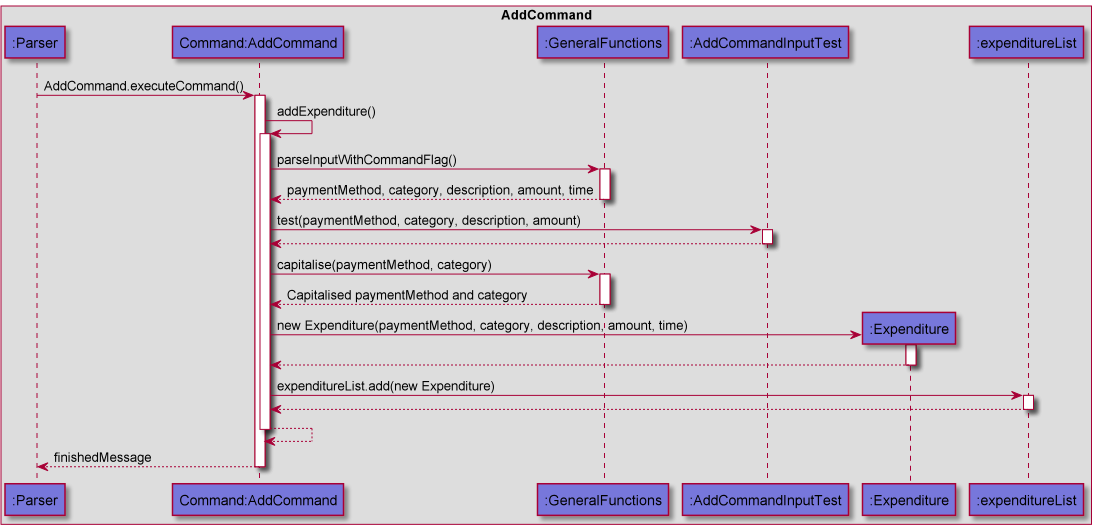
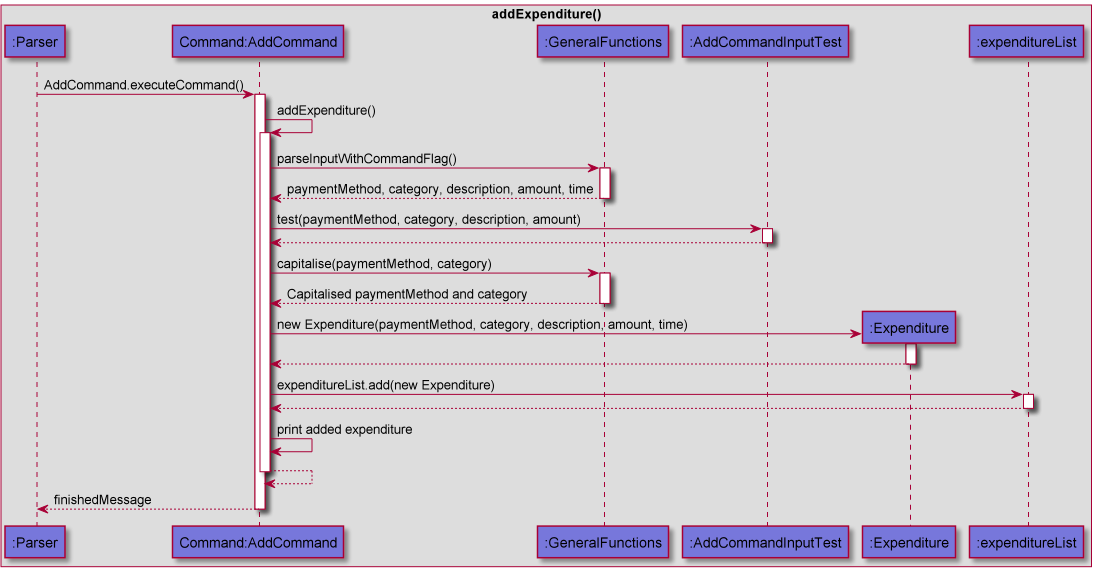
Added addCreditCard() to DG

Changed region(s): [[0.0, 0.0, 1.0, 1.0]]

diff --git a/src/main/java/seedu/mindmymoney/command/AddCommand.java b/src/main/java/seedu/mindmymoney/command/AddCommand.java
@@ -167,7 +167,7 @@ public class AddCommand extends Command {
                     + "into the account");
             System.out.println(System.lineSeparator());
         } catch (NumberFormatException e) {
-            throw new MindMyMoneyException("Amount must be a whole number!");
+            throw new MindMyMoneyException("Income must be a whole number!");
         }
     }
 

diff --git a/docs/DeveloperGuide.md b/docs/DeveloperGuide.md
@@ -178,14 +178,27 @@ Below is an example scenario showing how the AddCommand behaves at each step.
 7. The application then returns to the Parser component.
 
 ### Add Credit Card Command
-MindMyMoney allow users to track their different payment methods, A user can add and track user expenditure. A user can add in a new expenditure
-by specifying the payment method, the category, the description of the item, the cost of the item and the date of
-purchase.
+MindMyMoney allow users to track their different credit cards. A user can add a new credit card through the 
+`addCreditCard()` command by specifying the credit card name, cash back, card limit and balance.
 
+#### Current Implementation
+The sequence diagram below shows the interactions of different subcomponents of the system when adding a credit card
+to the list.
+![add_credit_card_command_sequence_diagram](images/Add_Credit_Card_Command_Sequence_Diagram.png)  
+
+The `addCreditCard()` command is facilitated by the `AddCommand`. By running the command `add` with its relevant flags,
+`Parser` will construct a new `AddCommand` which will be used to execute users input.
+
+1. During the execution, `addCreditCard()` will parse through user input to obtain the `CREDIT_CARD_NAME`, `CATEGORY`,
+   `CASH_BACK`, `CARD_LIMIT` and `CARD_BALANCE` fields.
+2. Once all the fields are obtained, `addCreditCard()` object instantiates a new `CreditCard` 
+   object with the aforementioned 5 fields and adds them into the `CreditCardList`.
+3. The `addCreditCard()` object prints a list to show the user what it has saved.
+4. The `addCreditCard()` returns to `AddCommand`.
 
 ### Add Expenditure Command
 A key functionality of MindMyMoney is the ability to add and track user expenditure. A user can add in a new expenditure
-by specifying the payment method, the category, the description of the item, the cost of the item and the date of 
+through the `addExpenditure()` command by specifying the payment method, the category, the description of the item, the cost of the item and the date of 
 purchase.
 
 #### Current Implementation
@@ -193,7 +206,7 @@ The sequence diagram below shows the interactions of different subcomponents of 
 to the list.  
 ![add_expenditure_command_sequence_diagram](images/Add_Expenditure_Command_Sequence_Diagram.png)  
   
-The add expenditure command is facilitated by the `AddCommand`. By running the command `add` with its relevant flags, 
+The `addExpenditure()` command is facilitated by the `AddCommand`. By running the command `add` with its relevant flags, 
 `Parser` will construct a new `AddCommand` which will be used to execute users input.
 
 1. During the execution, `addExpenditure()` will parse through user input to obtain the `PAYMENT_METHOD`, `CATEGORY`,
@@ -205,13 +218,13 @@ The add expenditure command is facilitated by the `AddCommand`. By running the c
 4. The `addExpenditure()` object prints a list to show the user what it has saved.
 5. The `addExpenditure()` returns to `AddCommand`.
 
-#### Design considerations
-Aspect: How to ask user for the 5 fields of input
-* Alternative 1 (current choice): User is asked to put in all 5 fields at once, separated using flags.
+### Add Command Design Considerations
+Aspect: How to ask user for the fields of input
+* Alternative 1 (current choice): User is asked to put in all fields at once, separated using flags.
     * Pros: Faster input, user can enter an expenditure using a single input.
     * Cons: User must be able to remember all the flags and its sequence.
 
-* Alternative 2: User is asked iteratively to put in all 5 fields, prompted by a message after each input.
+* Alternative 2: User is asked iteratively to put in all fields, prompted by a message after each input.
     * Pros: Beginner friendly, easily understandable, no need to remember flags.
     * Cons: Slower, implementation when user is familiar with the application.
 
